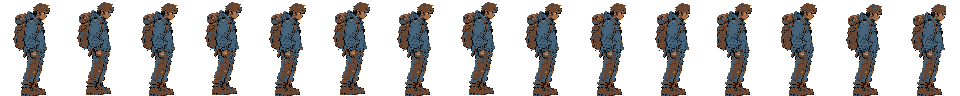
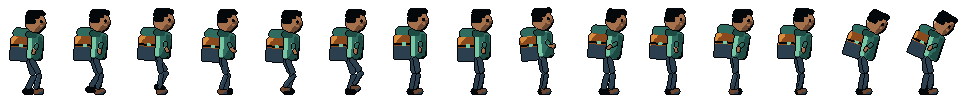
Art: the survivor is a rig now, with feet that do not slide
Used agent-sprite-forge's codeart2d rig route to build the character, instead of
downscaling the approved still by 9:1. The still supplies the design - teal
hooded jacket, canvas backpack with a bedroll, dark trousers, heavy boots, facing
right - and the rig supplies the motion: 15 frames across five clips, all keyed,
timed and ground-checked.

WHAT THE STILL COULD NOT DO. The previous pipeline resampled the painting with
nearest-neighbour and derived 15 frames by shifting the leg block 2px, which read
as a shuffle. The rig has a real skeleton with two-bone IK and a ground
constraint, so the planted foot's world position is constant by construction:
the contact report measures 0.0px drift on both legs of the walk and both legs
of the idle. The arms swing, the hips bob, the backpack rides against the torso.

THE PROPORTIONS WERE WRONG TWICE. The first rig came out 17x82 against the
still's traced 37x94 - about half the width, because the backpack is the widest
thing in the silhouette and I had drawn it as a side pouch. Rebuilt to span
x 10..46, y 8..95.

TWO COLOURS SAT ON THE WALL. The audit's camouflage gate failed at 28.7% and
then 29.5% with the frames in place. Listing the sheet's colours by distance to
the wall found the cause: PALETTE.shadow #14202c (lum 29.8, 10.3 from the wall)
was the rig's back-leg boot and hair, carrying 3036px, and a lo ramp step I had
invented at #1e2a36 sat 0.3 away and was not a palette colour at all. Both now
[…]

diff --git a/tools/assemble-rig-sheet.py b/tools/assemble-rig-sheet.py
@@ -1,0 +1,61 @@
+#!/usr/bin/env python3
+"""Assemble rig frames into the game's 15-frame character sheet.
+
+The rig tool writes one PNG per clip frame (walk-00.png ... search-01.png).
+The game's walk sheet is a single 960x96 strip whose frame order is fixed by
+src/render/walkcycle.ts:
+
+    0-5   walk      (WALK_FRAMES 6)
+    6-7   idle      (IDLE_FRAMES 2)
+    8-10  attack    (ATTACK_FRAMES 3)
+    11-12 hurt      (HURT_FRAMES 2)
+    13-14 search    (SEARCH_FRAMES 2)
+
+Usage:
+    python tools/assemble-rig-sheet.py <frames-dir> <key>
+"""
+import os
+import sys
+
+from PIL import Image
+
+FRAME_W, FRAME_H = 64, 96
+# clip name -> how many frames the game expects, in sheet order
+ORDER = [("walk", 6), ("idle", 2), ("attack", 3), ("hurt", 2), ("search", 2)]
+KEYS = ["player", "npc_alin", "npc_xiaozhou", "wanderer"]
+
+
+def main() -> int:
+    if len(sys.argv) < 3:
+        print("usage: assemble-rig-sheet.py <frames-dir> <key>")
+        return 2
+    frames_dir, key = sys.argv[1], sys.argv[2]
+    if key not in KEYS:
+        print(f"key must be one of {KEYS}")
+        return 2
+
+    sheet = Image.new("RGBA", (FRAME_W * 15, FRAME_H), (0, 0, 0, 0))
+    slot = 0
+    for clip, count in ORDER:
+        for i in range(count):
+            src = os.path.join(frames_dir, f"{clip}-{i:02d}.png")
+            if not os.path.exists(src):
+                print(f"missing {src}")
+                return 1
+            frame = Image.open(src).convert("RGBA")
+            if frame.size != (FRAME_W, FRAME_H):
+                print(f"{src} is {frame.size}, expected {(FRAME_W, FRAME_H)}")
+                return 1
+            sheet.paste(frame, (slot * FRAME_W, 0))
+            slot += 1
+
+    dst_dir = os.path.join("src", "assets", "characters")
+    os.makedirs(dst_dir, exist_ok=True)
+    dst = os.path.join(dst_dir, f"{key}.png")
+    sheet.save(dst)
+    print(f"wrote {dst} ({sheet.width}x{sheet.height}, {slot} frames)")
+    return 0
+
+
+if __name__ == "__main__":
+    sys.exit(main())

diff --git a/re/run-forge.py b/re/run-forge.py
@@ -1,0 +1,52 @@
+"""Run any agent-sprite-forge tool with a Windows-safe publish.
+
+The tools stage their output in a hidden directory and publish it with
+os.rename(). On Windows that fails with WinError 5 when anything still holds a
+handle inside the stage - which is what happens here, because the SVG rasteriser
+and PIL have both touched files under it moments earlier. A plain rename of the
+same directory works once nothing has it open, so the fix is to force a
+collection, retry with backoff, and fall back to moving the children.
+
+Usage:
+    python re/run-forge.py <tool.py> [tool args...]
+"""
+import gc
+import os
+import runpy
+import shutil
+import sys
+import time
+
+SF = r"D:\ZYY_Inovation\game\floor-100000-claude-kit\re\_ref\spriteforge\agent-sprite-forge-0.4.0"
+sys.path.insert(0, SF + r"\shared")
+for sub in (r"\skills\codeart2d\scripts", r"\skills\generate2dsprite\scripts", r"\skills\generate2dmap\scripts"):
+    p = SF + sub
+    if os.path.isdir(p):
+        sys.path.insert(0, p)
+import forge_core
+
+
+def rename_noreplace(source, target):
+    for attempt in range(8):
+        gc.collect()
+        try:
+            os.rename(source, target)
+            return
+        except PermissionError:
+            if attempt == 7:
+                break
+            time.sleep(0.12 * (attempt + 1))
+    os.mkdir(target)
+    for child in sorted(os.listdir(source)):
+        shutil.move(os.path.join(source, child), os.path.join(target, child))
+    os.rmdir(source)
+
+
+forge_core._rename_noreplace = rename_noreplace
+
+tool = sys.argv[1]
+sys.argv = [tool] + sys.argv[2:]
+try:
+    runpy.run_path(tool, run_name="__main__")
+except SystemExit as e:
+    print("exit", e.code)
